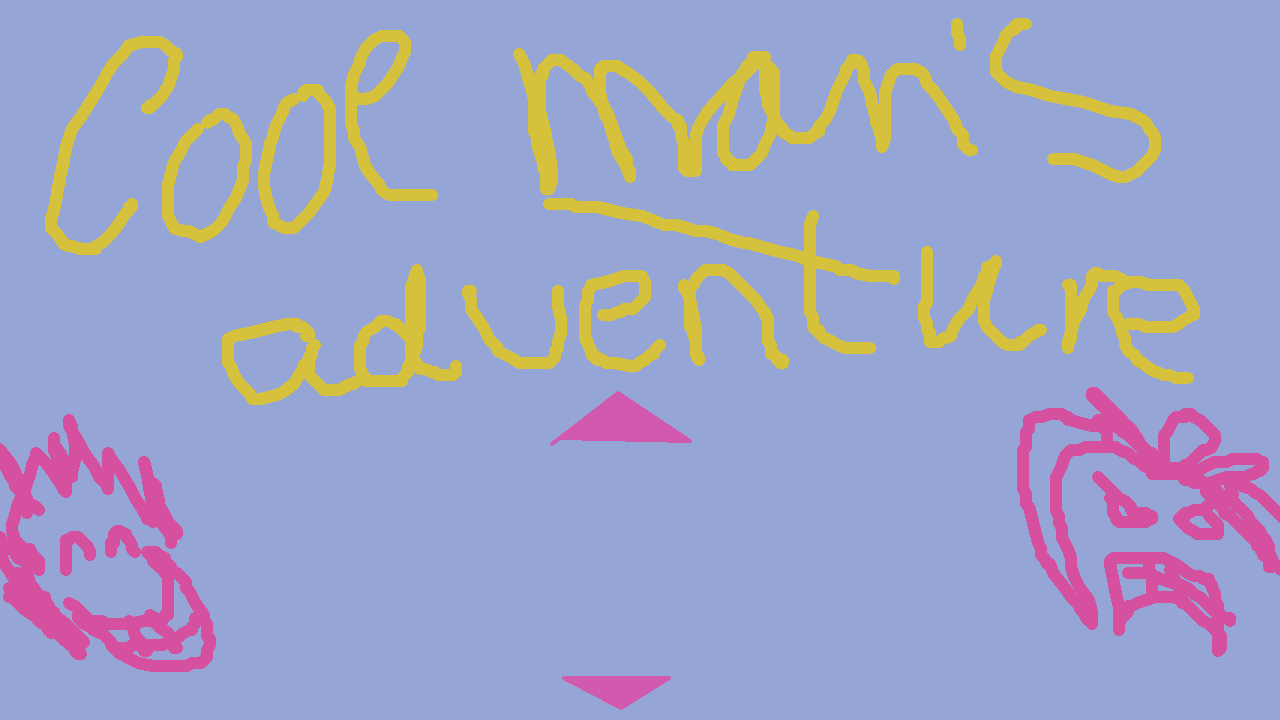
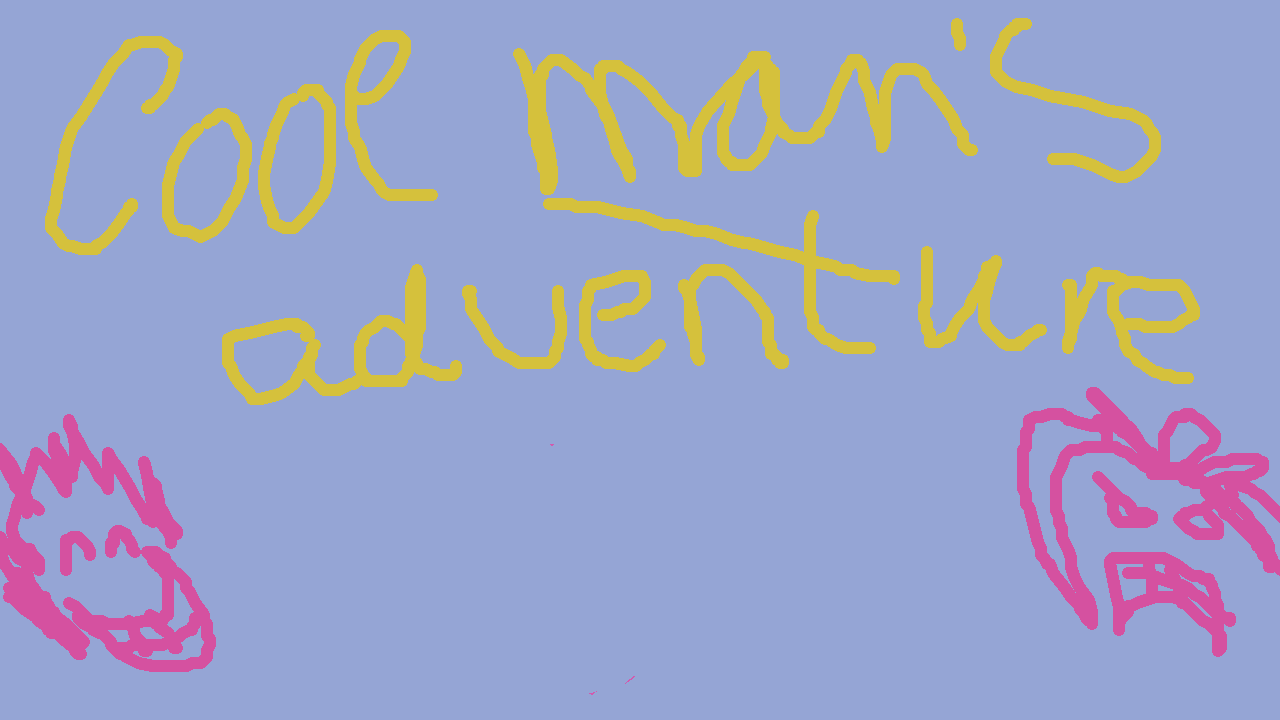
some fixes again

Changed region(s): [[0.4375, 0.9167, 0.5312, 1.0], [0.4375, 0.55, 0.5312, 0.6417]]

diff --git a/main.py b/main.py
@@ -124,11 +124,16 @@ class Main_menu():
             self.background = pygame.Surface.convert_alpha(self.background)
             self.button = pygame.image.load("data/menu_button.png")
             self.button = pygame.Surface.convert_alpha(self.button)
+            self.button_up = pygame.image.load("data/menu_button_up_down.png")
+            self.button_up = pygame.Surface.convert_alpha(self.button_up)
+            self.button_down = pygame.transform.flip(self.button_up,False,True)
 
     def bliting(self):
         if self.slide==0:
             screen.blit(self.background,(0,0))
             screen.blit(self.button,(screen_width//2-(self.button.get_width()//2), 500))
+            screen.blit(self.button_up,(screen_width//2-(self.button_up.get_width()//2), 400))
+            screen.blit(self.button_down,(screen_width//2-(self.button_up.get_width()//2), 650))
 running = True
 pygame.init()
 pygame.display.set_caption('the cool man adventure')
